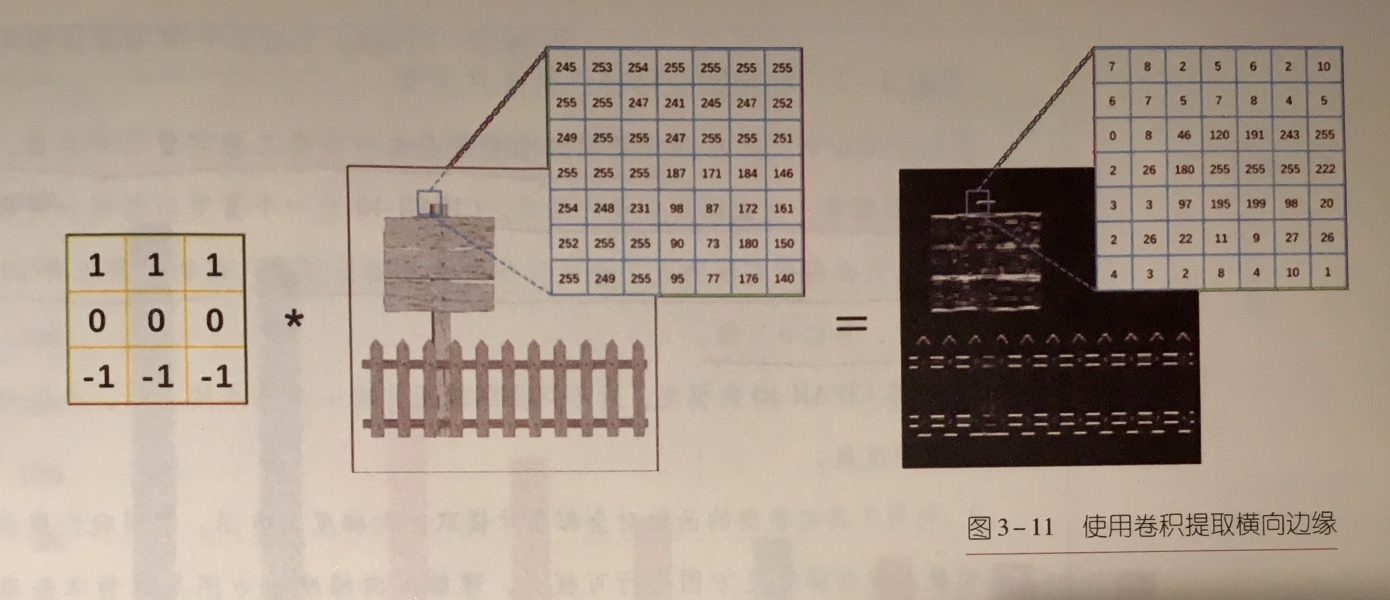
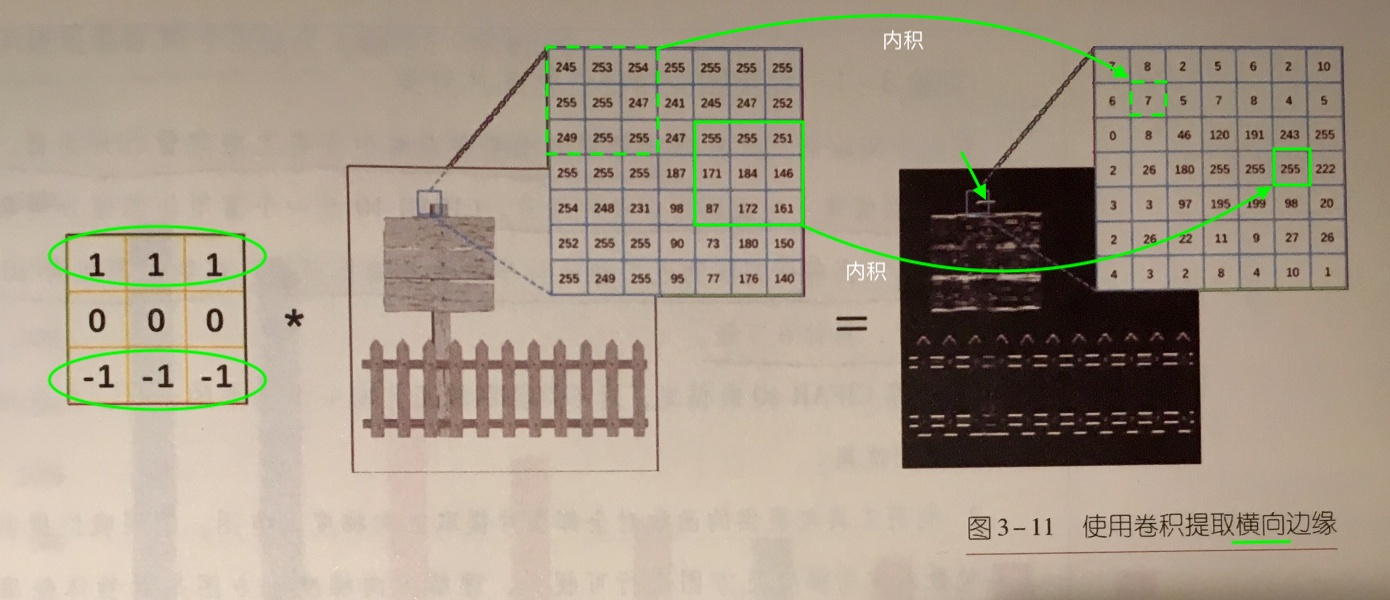
Update convolution diagram note

diff --git a/3_识图认物.md b/3_识图认物.md
@@ -17,6 +17,7 @@
 [image15]: ./Images/ZP04.jpg
 [image16]: ./Images/CannyEdgeDetection01.png
 [image17]: ./Images/VehicleDetection01.png
+[image18]: ./Images/Convolution04.jpg
 
 
 # 第三章：识图认物
@@ -124,6 +125,8 @@
 - (255, 0, 0) 红色，(0, 255, 0) 绿色
 - 那么，(255, 255, 255) 和 (0, 0, 0) 分别是什么颜色？
 
+...
+
 
 **计算机找出图像中的特征：有相当的困难**
 
@@ -136,7 +139,7 @@
 
 [![alt text][image16]](https://s3.cn-north-1.amazonaws.com.cn/u-vid-hd/Av2GsgQWX8I.mp4)
 
-找到图中边缘：Canny Edge Detection：一种**卷积**计算
+找到图中边缘：**Canny Edge** Detection：一种**卷积**计算
 
 其实就是一种再基础不过的计算～来，一起算算
 
@@ -152,11 +155,13 @@
 
 但：神奇的事就这么发生了
 
-![alt text][image8]
+![alt text][image18]
+
+![alt text][image9]
 
 从图像中提取出了边缘：特征耶！
 
-![alt text][image9]
+![alt text][image8]
 
 So, 卷积：通过这样很基础的计算，生成了一个新的图像；
 
@@ -182,8 +187,9 @@ So, 卷积：通过这样很基础的计算，生成了一个新的图像；
 
 [![alt text][image17]](https://s3.cn-north-1.amazonaws.com.cn/u-vid-hd/ioaSZFCn3iI.mp4)
 
+这样，我们有效地提取了边缘特征，通过 Canny Edge 和 HOG 这样的技术。
 
-
+但是，这些特征提取是人为预先设计好的，有没有更加自动化的办法呢？
 
 
 
